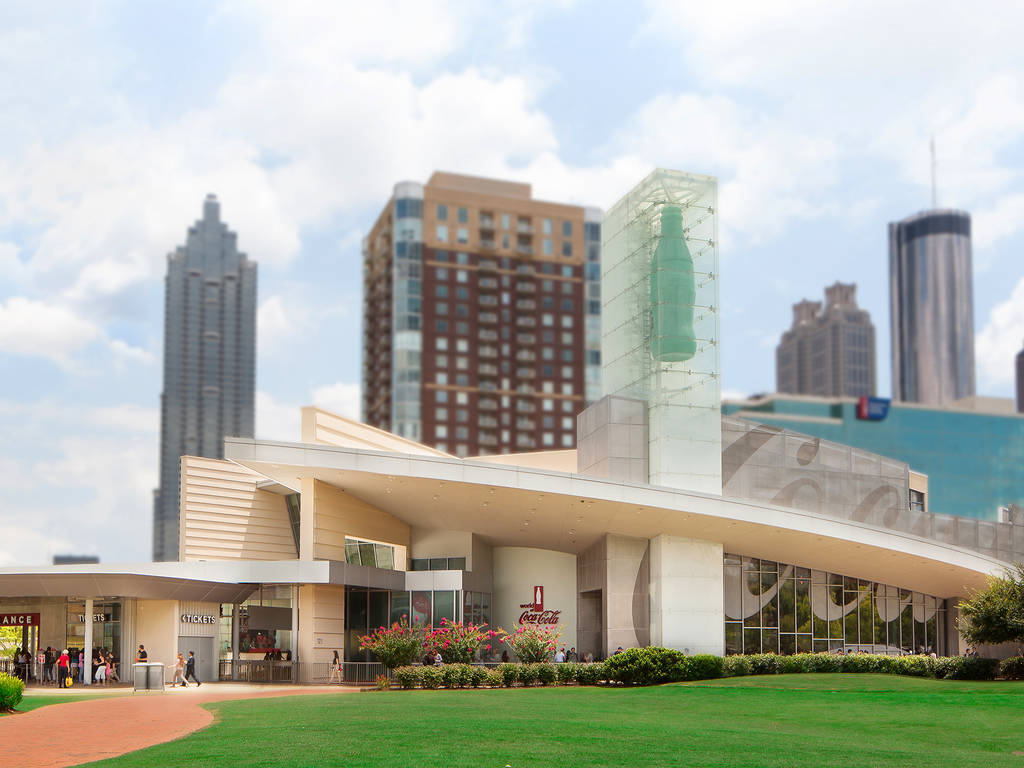
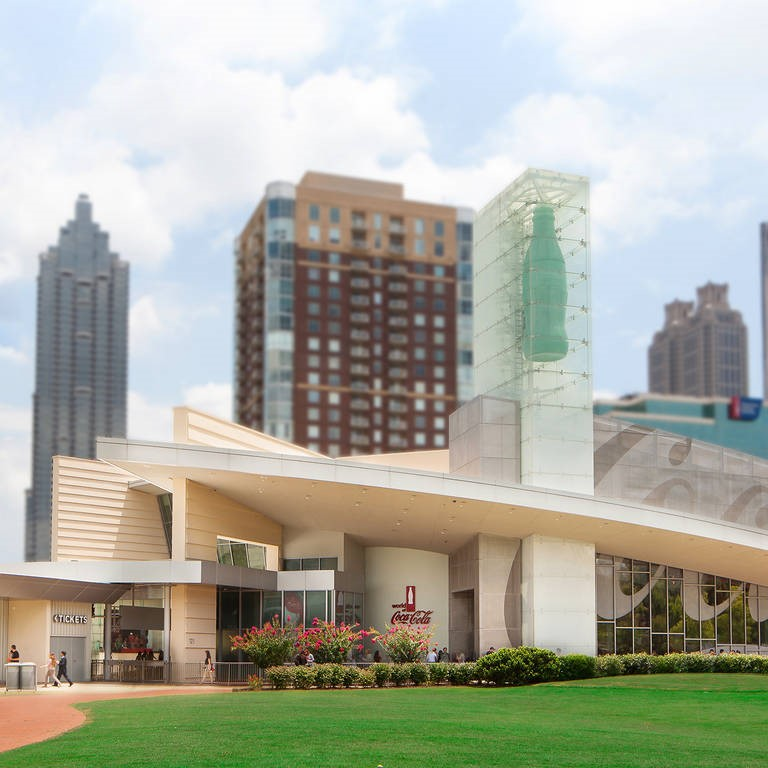
Modified cities images for square shape

diff --git a/cities.html b/cities.html
@@ -39,15 +39,15 @@ because we have used the col-md class, which is primarily designed for medium-si
 </p>
 <br>
 <div class="container">
-<img src="Atlanta.jpg" class="img-fluid" alt="Atlanta City" height="400" width="400"/>
-<img src="Irving.jpg" class="img-fluid" alt="Irving City" height="400" width="400"/>
-<img src="LincolnCity.jpg" class="img-fluid" alt="Lincoln City" height="400" width="400"/>
+<img src="Atlanta.jpg" class="img-fluid" alt="Atlanta City" height="350"  width="350" />
+<img src="Irving.jpg" class="img-fluid" alt="Irving City" height="350"  width="350" />
+<img src="LincolnCity.jpg" class="img-fluid" alt="Lincoln City" height="350"  width="350" />
 </div>
 <br>
 <div class="container">
-  <img src="Atlanta.jpg" class="img-thumbnail" alt="Atlanta City" height="400" width="400"/>
-  <img src="Irving.jpg" class="img-thumbnail" alt="Irving City" height="400" width="400"/>
-  <img src="LincolnCity.jpg" class="img-thumbnail" alt="Lincoln City" height="400" width="400"/>
+  <img src="Atlanta.jpg" class="img-thumbnail" alt="Atlanta City" height="350"  width="350"/>
+  <img src="Irving.jpg" class="img-thumbnail" alt="Irving City" height="350"  width="350"/>
+  <img src="LincolnCity.jpg" class="img-thumbnail" alt="Lincoln City" height="350"  width="350"/>
   </div>
 </body>
 </html>
